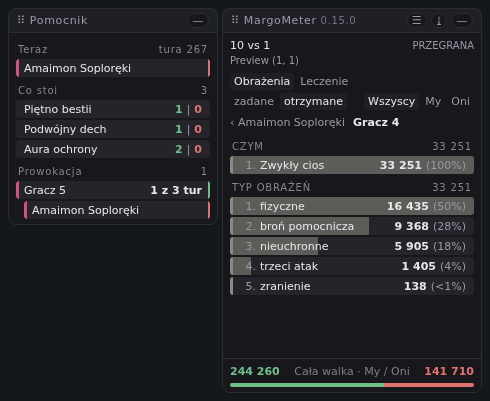
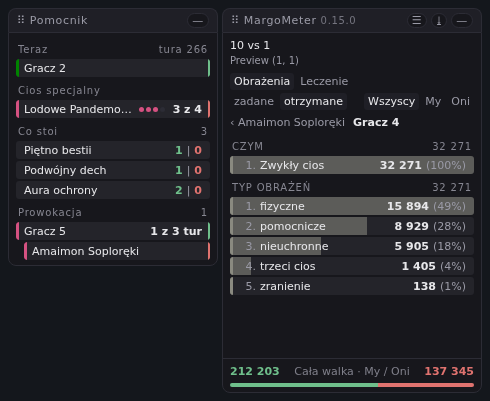
fix(tools,tests,screenshots): the panel is photographed while a fight is still going
The set was taken at `entry = calls.length`, which is after the fight ended, and
that is the one moment the window beside the panel has nothing to draw: a fight
that is over numbers nobody's turn (ADR 0066), so `Teraz` says only that it
ended, the ranking carries no `▸`, and no charge can stand to fill `Cios
specjalny`. Five of the six pictures now come from entry 11 of 15; the shelf
stays at 15, because a fight is kept where it reaches its end and an underway
shelf holds the live row and nothing to go back to.

The fight did not move, and that was measured rather than assumed. Over all 31
recordings, `2026-08-27-luvia-grupa-vs-amaimon-53XkBRxF-0.9.0` still carries the
most protocol: 81 distinct keys against 76 for the next and 68 for the newest,
three auras, and the only two different shouts in the corpus, which is what
draws `Prowokacja` at all. Replayed payload by payload, entry 11 is the fight
still going with the turn stated on our side and the far side three turns into
the four the game states for `Lodowe Pandemonium` — four pips, three lit, both
sides' hues in one window. Entry 12 says the same but puts the turn on their
side; entry 8 has the charge one turn in. 349548 of the fight's 385970 damage
already stands at 11, the eleven-row ranking is whole, `dealtByNobody` is 12882
so `Nieznany sprawca` still opens, and nothing is unread, lost or joined in
progress — no suspicion block reaches a frame.
[…]

diff --git a/tools/panel-screenshots.ts b/tools/panel-screenshots.ts
@@ -83,24 +83,50 @@ const MAXIMUM_FRAME_SIDE = 4000;
 /** What the page is told the picture will be taken at; the preview reads its own keys, not this. */
 export const FRAME_PARAMETER = "frame";
 
-/** One picture, and the presses that reach the state it is of. */
+/**
+ * How far into the fight a picture is taken. A fight that has ended numbers nobody's turn (**ADR
+ * 0066**) and holds no charge, so the window beside the panel says only that it is over; a fight
+ * still going has nothing on the shelf, because a fight is kept where it reaches its end. Neither
+ * moment draws both, which is why the set is taken at two.
+ */
+export type ShotMoment = "underway" | "over";
+
+/**
+ * The payload the underway pictures are taken after. Measured over the recording
+ * `getPreviewRecordedFight` hands back — the material is named there, and named once —
+ * replayed payload by payload on 2026-09-11: the fight is still going, the turn stated is one of
+ * ours, and the far side is three turns into the four the game states for `Lodowe Pandemonium` —
+ * so the second window draws a turn, a charge with a turn still to run, and both sides' hues at
+ * once. Eleven payloads of fifteen, holding 349548 of the 385970 the whole fight comes to.
+ */
+export const UNDERWAY_ENTRY = 11;
+
+/** One picture, when it is taken, and the presses that reach the state it is of. */
 export interface PanelShot {
     name: string;
+    moment: ShotMoment;
     steps: string;
+}
+
+/** One picture of a set, beside how much of the fight the panel in it had been handed. */
+export interface TakenShot {
+    name: string;
+    entry: number;
 }
 
 /**
  * What the set names, so the sidecar and the directory can be held to each other.
  *
- * The commit and the version are written because a picture cannot say which build drew it, and
- * the recording because a figure in a picture means nothing without the fight it was counted over.
+ * The commit and the version are written because a picture cannot say which build drew it, the
+ * recording because a figure in a picture means nothing without the fight it was counted over, and
+ * the entry because two of these pictures are of the same fight at different moments of it.
  */
 export interface PanelShotRecord {
     commit: string;
     version: string;
     fight: string;
     takenAt: string;
-    shots: string[];
+    shots: TakenShot[];
 }
 
 /**
@@ -113,14 +139,20 @@ const TAB_DAMAGE_TAKEN = 3;
 
 export function composePanelShots(): PanelShot[] {
     const shots: PanelShot[] = [
-        { name: "panel-ranking.png", steps: `setPressed("[data-screen]", ${TAB_DAMAGE_TAKEN});` },
+        {
+            name: "panel-ranking.png",
+            moment: "underway",
+            steps: `setPressed("[data-screen]", ${TAB_DAMAGE_TAKEN});`,
+        },
         {
             name: "panel-opened.png",
+            moment: "underway",
             steps:
                 `setPressed("[data-screen]", ${TAB_DAMAGE_TAKEN});\nsetPressed("[data-row]", 0);`,
         },
         {
             name: "panel-deep.png",
+            moment: "underway",
             steps: `setPressed("[data-screen]", ${TAB_DAMAGE_TAKEN});\n` +
                 `setPressed("[data-row]", 0);\nsetPressed("[data-row]", 0);`,
         },
@@ -129,15 +161,19 @@ export function composePanelShots(): PanelShot[] {
             // a pinned row stands apart from the ranking and is marked by the end it leaves
             // out, which is the whole of what opening it asks for.
             name: "panel-half-named.png",
+            moment: "underway",
             steps: `setPressed("[data-screen]", ${TAB_DAMAGE_TAKEN});\n` +
                 `setPressed("[data-unnamed]", 0);`,
         },
         {
             name: "panel-card.png",
+            moment: "underway",
             steps:
                 `setPressed("[data-screen]", ${TAB_DAMAGE_TAKEN});\nsetHovered("[data-tip]", 0);`,
         },
-        { name: "panel-shelf.png", steps: `setPressed("[data-shelf]", 0);` },
+        // The shelf is the one picture of a fight that ended: a fight is kept where it reaches
+        // its end, so an underway shelf holds the live row and nothing to go back to.
+        { name: "panel-shelf.png", moment: "over", steps: `setPressed("[data-shelf]", 0);` },
     ];
     assert(shots.length > 1, "a set is more than one picture");
     assertStrictEquals(
@@ -145,7 +181,18 @@ export function composePanelShots(): PanelShot[] {
         shots.length,
         "each named once",
     );
+    assert(shots.some((shot) => shot.moment === "over"), "a set holds the fight that ended");
+    assert(shots.some((shot) => shot.moment === "underway"), "and the one still going");
     return shots;
+}
+
+/** Where a moment stands in a fight the game made this many calls over. */
+export function getEntryForMoment(moment: ShotMoment, calls: number): number {
+    assert(calls > UNDERWAY_ENTRY, "a fight photographed twice runs past the first moment");
+    const entry = moment === "over" ? calls : UNDERWAY_ENTRY;
+    assert(entry > 0, "a picture is of a fight something has been read of");
+    assert(entry <= calls, "and of one this recording reaches");
+    return entry;
 }
 
 /**
@@ -489,13 +536,13 @@ async function getCommitForShots(): Promise<string> {
 async function setShotsMovedIn(staging: string, record: PanelShotRecord): Promise<void> {
     assert(record.shots.length > 0, "a set that is moved in has pictures in it");
     await Deno.mkdir(SHOT_DIRECTORY, { recursive: true });
-    const kept = new Set<string>([...record.shots, SIDECAR_NAME]);
-    for (const entry of Deno.readDirSync(SHOT_DIRECTORY)) {
-        if (kept.has(entry.name)) continue;
-        await Deno.remove(`${SHOT_DIRECTORY}/${entry.name}`);
+    const kept = new Set<string>([...record.shots.map((shot) => shot.name), SIDECAR_NAME]);
+    for (const held of Deno.readDirSync(SHOT_DIRECTORY)) {
+        if (kept.has(held.name)) continue;
+        await Deno.remove(`${SHOT_DIRECTORY}/${held.name}`);
     }
-    for (const name of record.shots) {
-        await Deno.copyFile(`${staging}/${name}`, `${SHOT_DIRECTORY}/${name}`);
+    for (const shot of record.shots) {
+        await Deno.copyFile(`${staging}/${shot.name}`, `${SHOT_DIRECTORY}/${shot.name}`);
     }
     const writing = composeJsonWriting(record, SIDECAR_INDENT_SPACES);
     if (!writing.isOk) {
@@ -523,8 +570,10 @@ export async function writePanelShots(browser: string, version: string): Promise
     const shots = composePanelShots();
     const built = await composeUserscriptFiles(version);
     const staging = await Deno.makeTempDir({ prefix: "margometer-shots-" });
+    const taken: TakenShot[] = [];
     try {
         for (const shot of shots) {
+            const entry = getEntryForMoment(shot.moment, fight.calls.length);
             const preview = setPreviewServer({
                 port: 0,
                 shouldWatch: false,
@@ -532,7 +581,7 @@ export async function writePanelShots(browser: string, version: string): Promise
                 appendedScript: composeShotScript(shot.steps),
             });
             try {
-                const at = `entry=${fight.calls.length}`;
+                const at = `entry=${entry}`;
                 const named = `fight=${encodeURIComponent(fight.name)}`;
                 await writeShotOfAddress(
                     browser,
@@ -542,14 +591,15 @@ export async function writePanelShots(browser: string, version: string): Promise
             } finally {
                 await preview.stop();
             }
+            taken.push({ name: shot.name, entry });
         }
-        for (const shot of shots) await Deno.stat(`${staging}/${shot.name}`);
+        for (const shot of taken) await Deno.stat(`${staging}/${shot.name}`);
         const record: PanelShotRecord = {
             commit,
             version,
             fight: fight.name,
             takenAt: new Date().toISOString(),
-            shots: shots.map((shot) => shot.name),
+            shots: taken,
         };
         await setShotsMovedIn(staging, record);
         assertStrictEquals(

diff --git a/tests/tools/panel-screenshots.test.ts b/tests/tools/panel-screenshots.test.ts
@@ -11,7 +11,9 @@ import {
     assert,
     assertArrayIncludes,
     assertEquals,
+    assertNotEquals,
     assertRejects,
+    assertStrictEquals,
     assertStringIncludes,
     assertThrows,
 } from "@std/assert";
@@ -22,6 +24,9 @@ import { PLACE, SPACE, TIP } from "@/src/ui/panel-look.ts";
 import { CONFIGURATION_FILE } from "@/project/repository-layout.ts";
 import { getDeclaredVersion, isVersionOfTree } from "@/tools/declared-version.ts";
 import { PanelShotError } from "@/tools/margometer-tool-error.ts";
+import type { FightReading } from "@/src/game/fight-underway.ts";
+import { composeFightReplaySteps } from "@/tools/fight-replay.ts";
+import { getRecordedFightCalls, PREVIEW_FIGHT_NAME } from "@/tools/recorded-fights.ts";
 import {
     BROWSER_VARIABLE,
     composeFrameFromReport,
@@ -30,11 +35,13 @@ import {
     composeShotScript,
     FRAME_PARAMETER,
     getBrowserAsked,
+    getEntryForMoment,
     getReportFromDom,
     MEASURING_WIDTH,
     readInstalledBrowser,
     SHOT_DIRECTORY,
     SIDECAR_NAME,
+    UNDERWAY_ENTRY,
 } from "@/tools/panel-screenshots.ts";
 
 /** A name nothing on any machine answers to, for the refusal that has to be reachable. */
@@ -94,9 +101,21 @@ Deno.test("whatever is in the directory agrees with the sidecar standing beside 
     assert(reading.isOk, "and the sidecar is JSON");
     const written = reading.value;
     assert(isRecord(written), "and the sidecar is a record");
-    const named = written.shots;
-    assert(Array.isArray(named), "naming the pictures it stands beside");
-    assertEquals(getSetDisagreements(held, named as string[]), [], "DESIGN.md: the set is the set");
+    const taken = written.shots;
+    assert(Array.isArray(taken), "naming the pictures it stands beside");
+    const calls = getRecordedFightCalls(PREVIEW_FIGHT_NAME).length;
+    const named: string[] = [];
+    for (const one of taken) {
+        assert(isRecord(one), "each of which says what it is and where it stood");
+        const name = one["name"];
+        assert(typeof name === "string", "a picture in a set is named");
+        const entry = one["entry"];
+        assert(typeof entry === "number", "and says how much of the fight it was handed");
+        assert(entry > 0, "which is more than none of it");
+        assert(entry <= calls, "and no more than the recording carries");
+        named.push(name);
+    }
+    assertEquals(getSetDisagreements(held, named), [], "DESIGN.md: the set is the set");
 });
 
 /**
@@ -309,4 +328,74 @@ Deno.test("both runs that drive a browser name the same variable", () => {
         BROWSER_CONFIGURATION,
     );
     assertEquals(configured, BROWSER_VARIABLE, "the suite names the variable this tool reads");
+});
+
+/**
+ * Why a moment is not one the underway pictures may be taken at. Collected rather than thrown at
+ * the first objection: an entry that fails two says both, and each clause is then a line that a
+ * moved `UNDERWAY_ENTRY` can light on its own — asserted in order, the first would shadow the rest.
+ */
+function composeUnderwayObjections(reading: FightReading): string[] {
+    const found: string[] = [];
+    if (reading.isOver) found.push("the fight had already ended");
+    if (reading.turnStatement === null) found.push("no turn was stated");
+    const charging = reading.chargedSkills.filter((one) => one.state === "charging");
+    if (charging.length !== 1) found.push(`${charging.length} charges stood, and one is wanted`);
+    for (const one of charging) {
+        if (one.turnsStated < 2) {
+            found.push(`${one.skillName} states one turn, so it draws one pip`);
+        }
+        if (one.turnsElapsed >= one.turnsStated) found.push(`${one.skillName} has no turn left`);
+    }
+    return found;
+}
+
+/**
+ * The moment the five underway pictures are taken at, re-earned over the recording they are taken
+ * over. Five of the set stand on a fight going on — the turn, what stands, a charge with pips left
+ * to light (**ADR 0066**) — and the shelf on one that ended, because a fight is kept where it
+ * reaches its end. The reader is proved both ways: the entry that must pass, and the end of the
+ * same fight, which must not.
+ */
+Deno.test("the moment the underway pictures are taken at is one a fight is going at", () => {
+    const calls = getRecordedFightCalls(PREVIEW_FIGHT_NAME);
+    const steps = composeFightReplaySteps({ name: PREVIEW_FIGHT_NAME, calls });
+    assertStrictEquals(steps.length, calls.length, "every payload leaves a fight to read");
+    assertEquals(
+        composeUnderwayObjections(steps[UNDERWAY_ENTRY - 1]!.replay.reading),
+        [],
+        `entry ${UNDERWAY_ENTRY} of ${PREVIEW_FIGHT_NAME} is not a fight going on`,
+    );
+    assertNotEquals(
+        composeUnderwayObjections(steps[calls.length - 1]!.replay.reading),
+        [],
+        "and the end of the same fight is not, which is the moment the shelf is photographed at",
+    );
+});
+
+Deno.test("a moment is where in the fight the picture is taken", () => {
+    const calls = UNDERWAY_ENTRY + 1;
+    assertStrictEquals(getEntryForMoment("over", calls), calls, "the whole fight, played out");
+    assertStrictEquals(
+        getEntryForMoment("underway", calls),
+        UNDERWAY_ENTRY,
+        "and the payload the fight is still going after",
+    );
+    assertThrows(
+        () => getEntryForMoment("underway", UNDERWAY_ENTRY),
+        Error,
+        undefined,
+        "a fight that ends before the first moment is not one to photograph twice",
+    );
+});
+
+Deno.test("the set is taken at both moments, and the shelf at only one", () => {
+    const shots = composePanelShots();
+    const over = shots.filter((shot) => shot.moment === "over");
+    assertStrictEquals(over.length, 1, "one picture is of the fight that ended");
+    assertStrictEquals(over[0]!.name, "panel-shelf.png", "and it is the one with a shelf in it");
+    assert(
+        shots.filter((shot) => shot.moment === "underway").length > 1,
+        "the rest are of the fight going on",
+    );
 });

diff --git a/tests/repository/readmes.test.ts b/tests/repository/readmes.test.ts
@@ -230,7 +230,10 @@ Deno.test("the pictures a README shows are the set the sidecar names, both ways"
     assert(isRecord(reading.value), "and is an object with the set in it");
     const shots = reading.value["shots"];
     assert(Array.isArray(shots), "which names the pictures it was taken as");
-    const named = shots.map((one) => `${SHOT_DIRECTORY}/${one}`).sort();
+    const named = shots.map((one) => {
+        assert(isRecord(one), "each of which says what it is");
+        return `${SHOT_DIRECTORY}/${one["name"]}`;
+    }).sort();
     const shown = [...new Set(getPicturePaths(getSource(POLISH)))].sort();
     assertEquals(shown, named, "a README shows exactly the set that was shot");
 });
